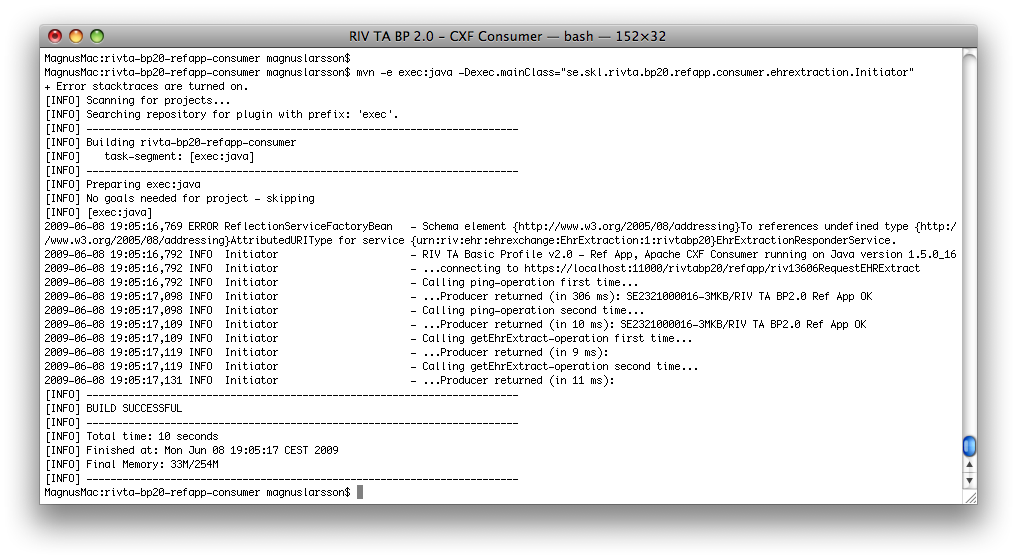
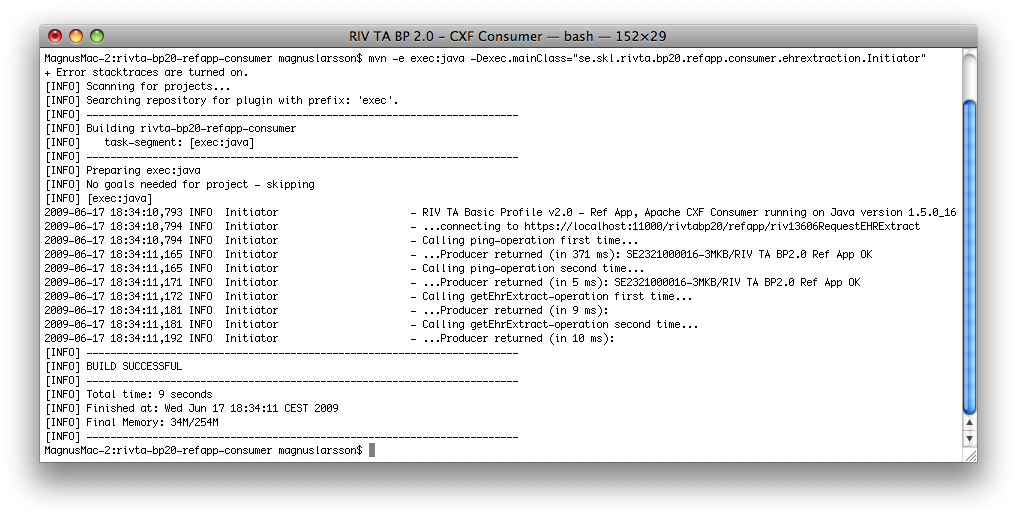
Fix for bug #298

Changed region(s): [[0.0305, 0.0309, 0.9754, 0.9284]]

diff --git a/src/bp20/refapp/trunk/java/cxf/rivta-bp20-refapp-producer/src/main/java/se/skl/rivta/bp20/refapp/producer/ehrextraction/Responder.java b/src/bp20/refapp/trunk/java/cxf/rivta-bp20-refapp-producer/src/main/java/se/skl/rivta/bp20/refapp/producer/ehrextraction/Responder.java
@@ -43,7 +43,8 @@ import se.skl.rivta.bp20.refapp.util.Util;
 	serviceName = "EhrExtractionResponderService", 
 	endpointInterface="se.skl.riv.ehr.ehrexchange.ehrextraction.v1.rivtabp20.EhrExtractionResponderInterface", 
 	portName = "EhrExtractionResponderPort", 
-	targetNamespace = "urn:riv:ehr:ehrexchange:EhrExtraction:1:rivtabp20")
+	targetNamespace = "urn:riv:ehr:ehrexchange:EhrExtraction:1:rivtabp20",
+	wsdlLocation = "classpath:/schemas/business/JournalinfoApoteketRIV/EhrExtractionInteraction.wsdl")
 public class Responder implements EhrExtractionResponderInterface {
 
 	static private final Logger logger = LoggerFactory.getLogger(Util.class);
